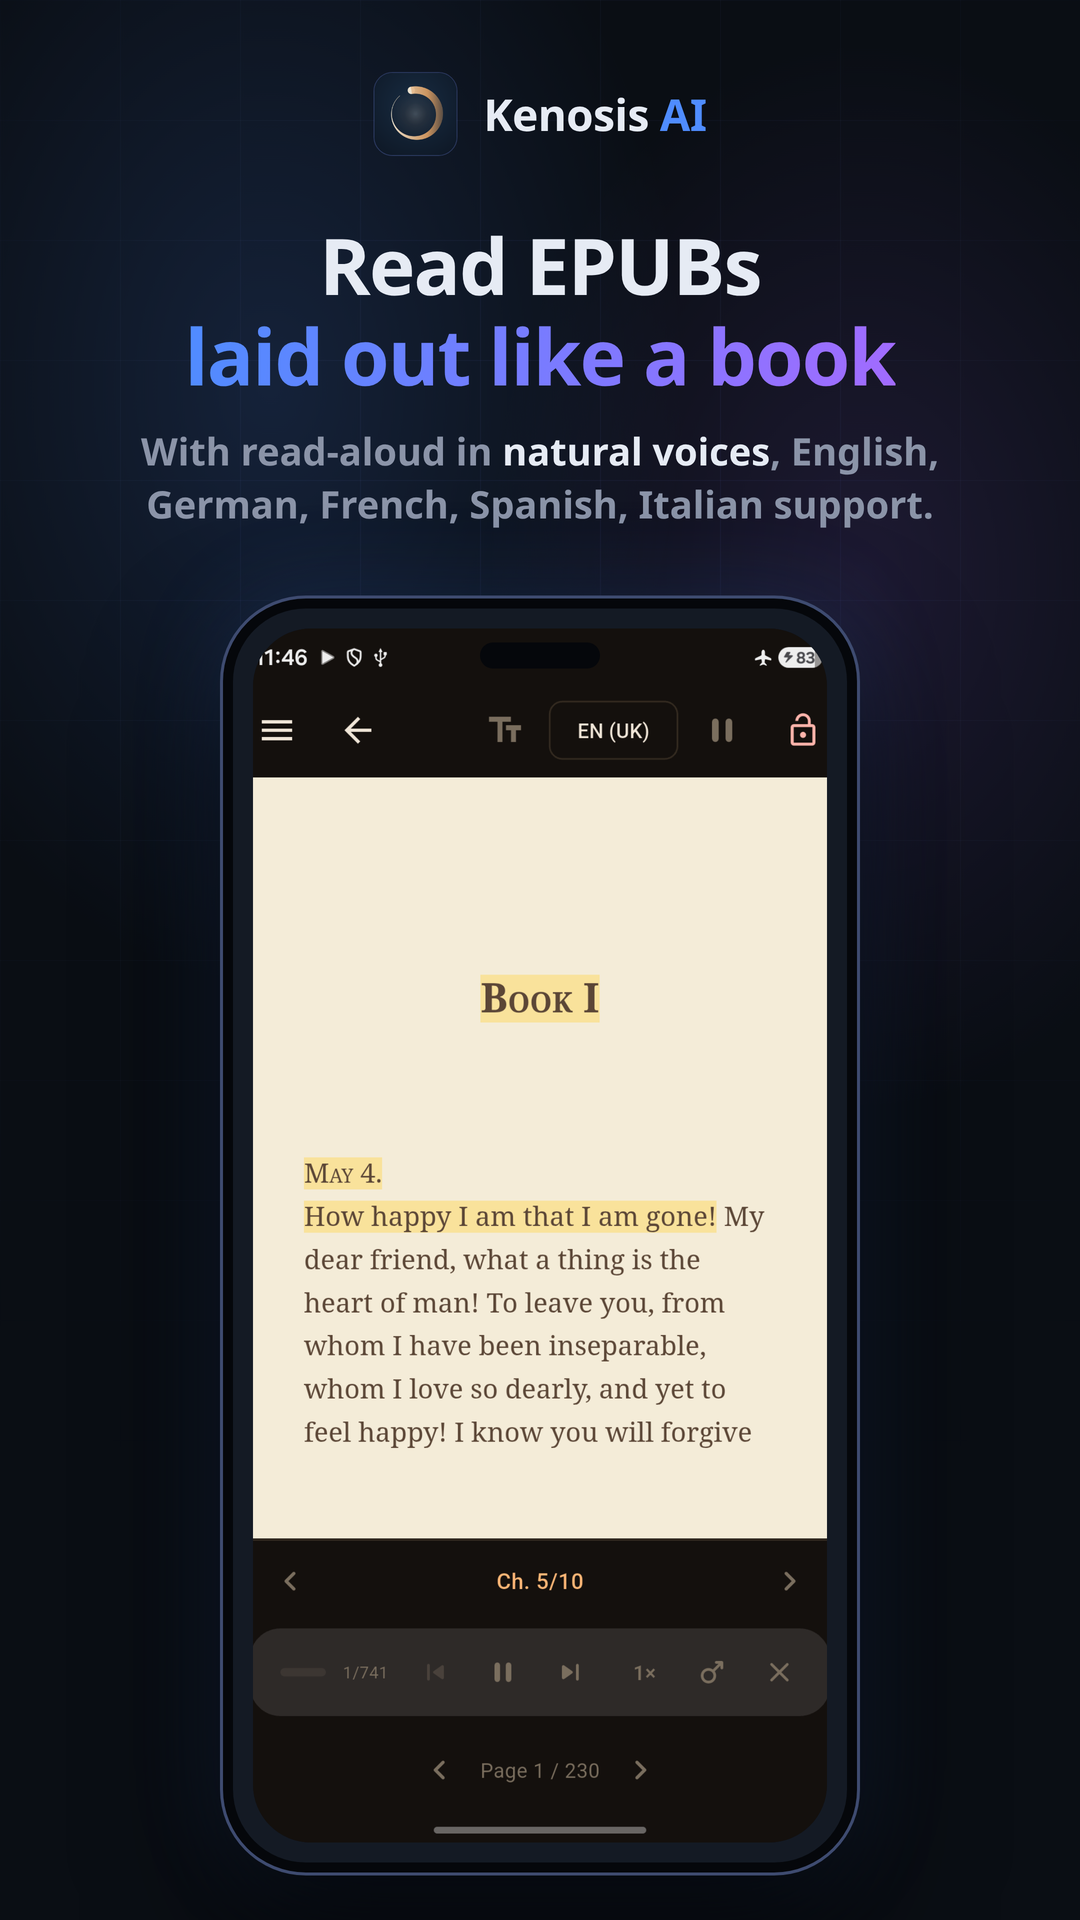
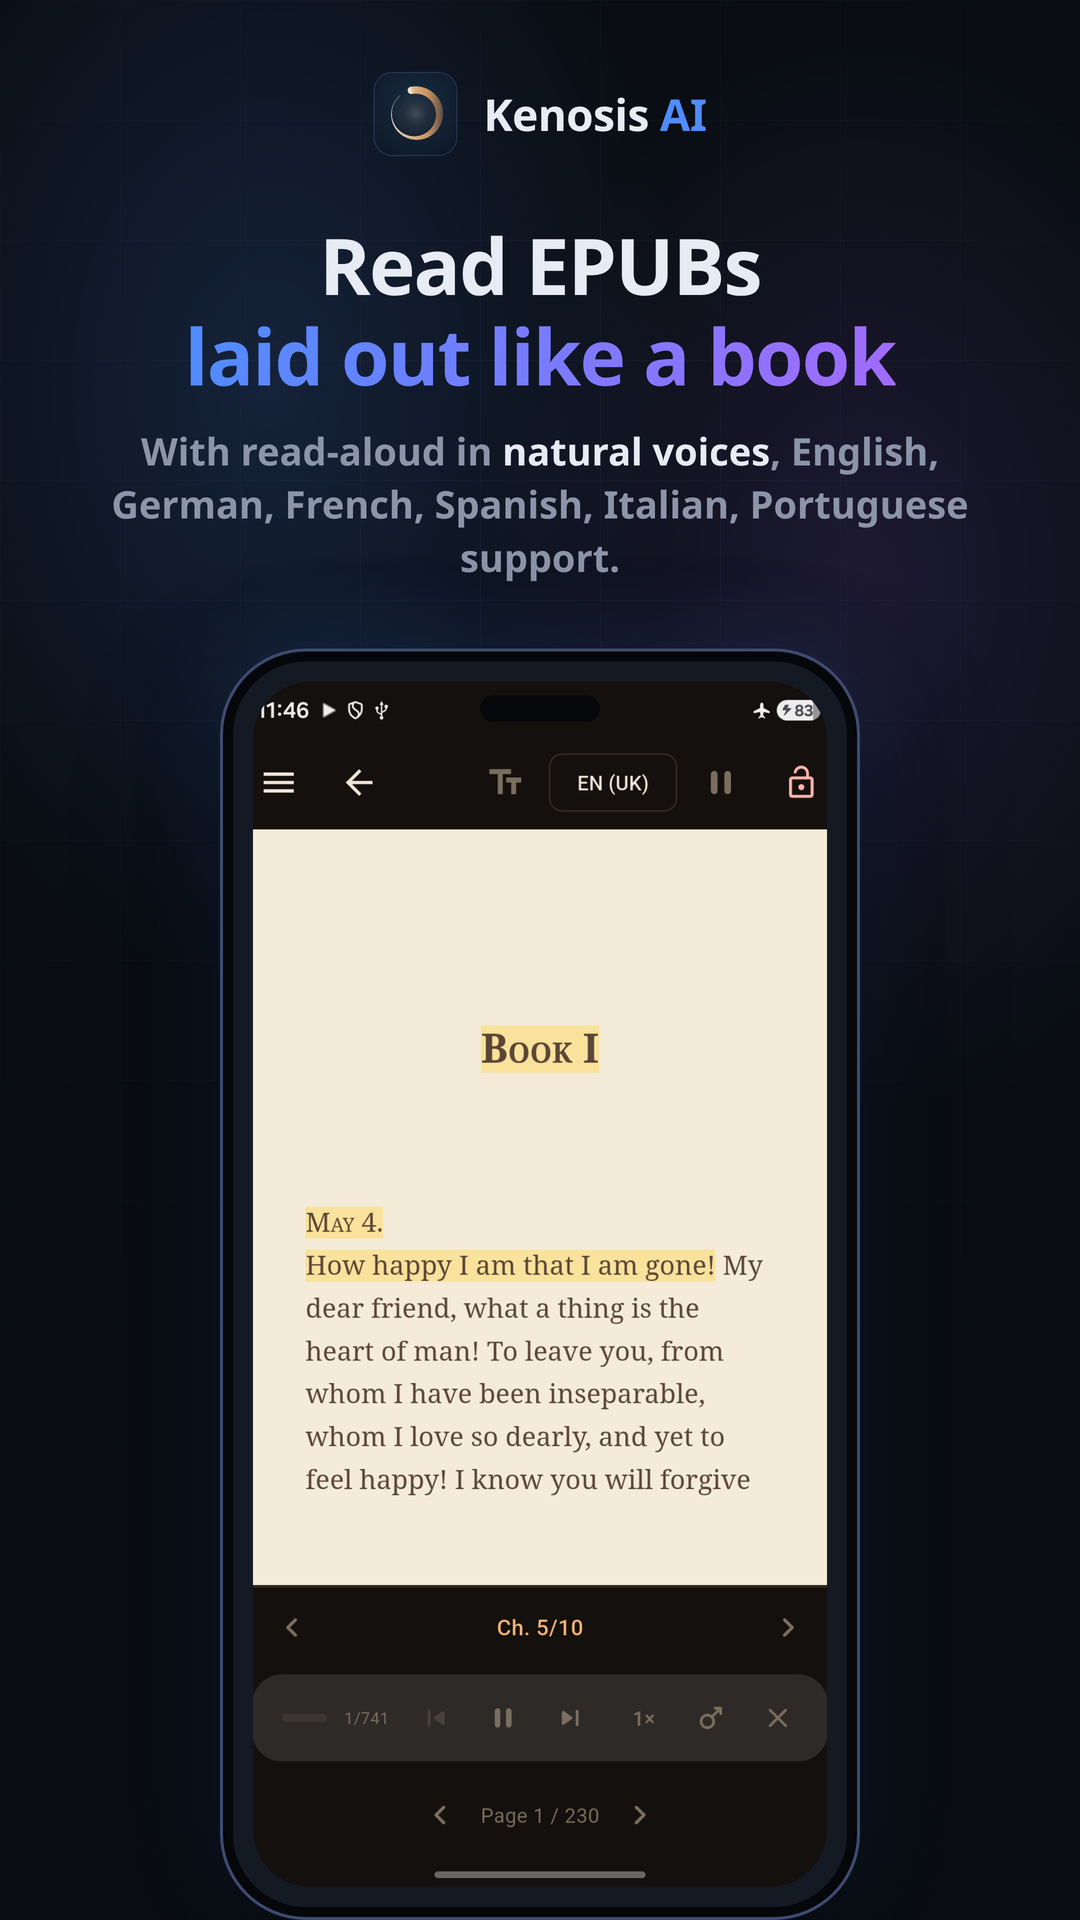
feat(store): add Portuguese to the read-aloud languages on the ebook screenshot

diff --git a/playstore/render.py b/playstore/render.py
@@ -33,7 +33,7 @@ SHOTS = [
          sub="Answers grounded in **your** books and files. ePub, pdf, docx, ppt, md, txt supported."),
     dict(shot="ebook03.png",
          t1="Read EPUBs", t2="laid out like a book",
-         sub="With read-aloud in **natural voices**, English, German, French, Spanish, Italian support."),
+         sub="With read-aloud in **natural voices**, English, German, French, Spanish, Italian, Portuguese support."),
     dict(shot="epub-audiobook-export02.png",
          t1="Turn any EPUB", t2="into an audiobook",
          sub="Exported as a **chaptered .m4a**, rendered right on your phone."),
